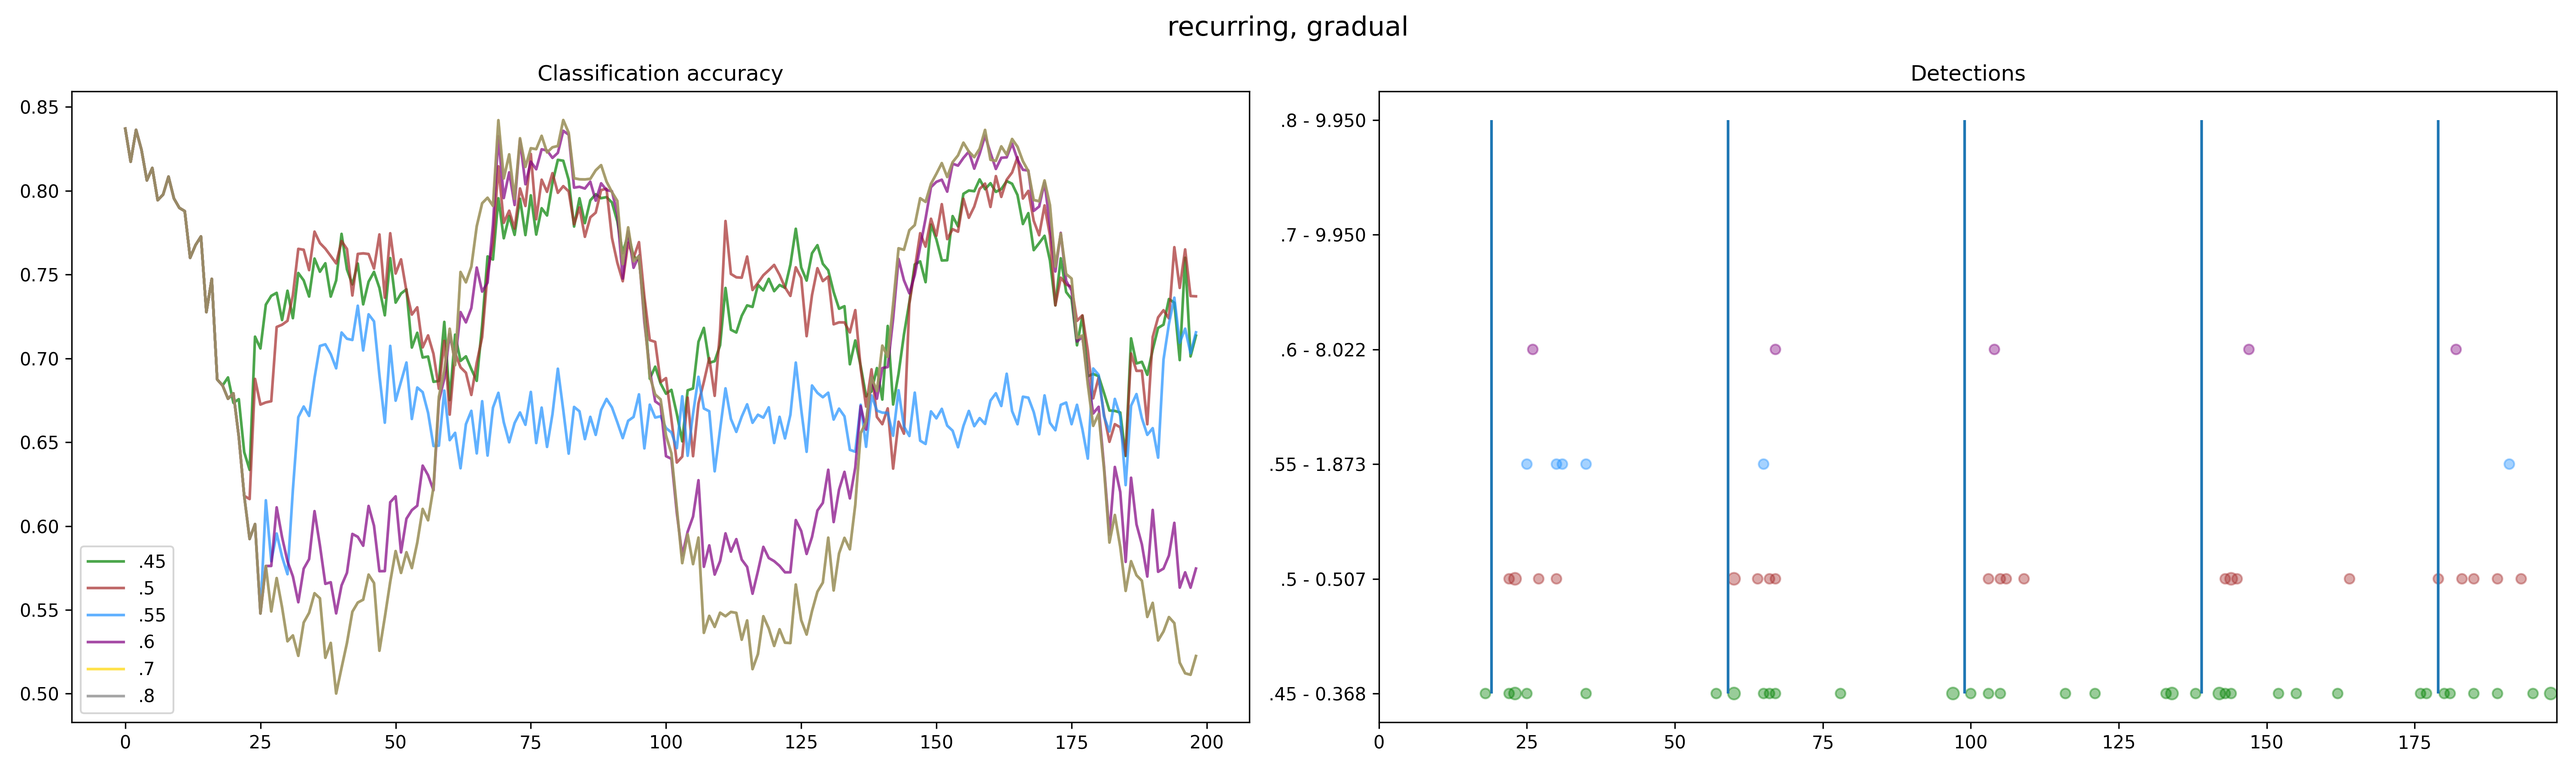
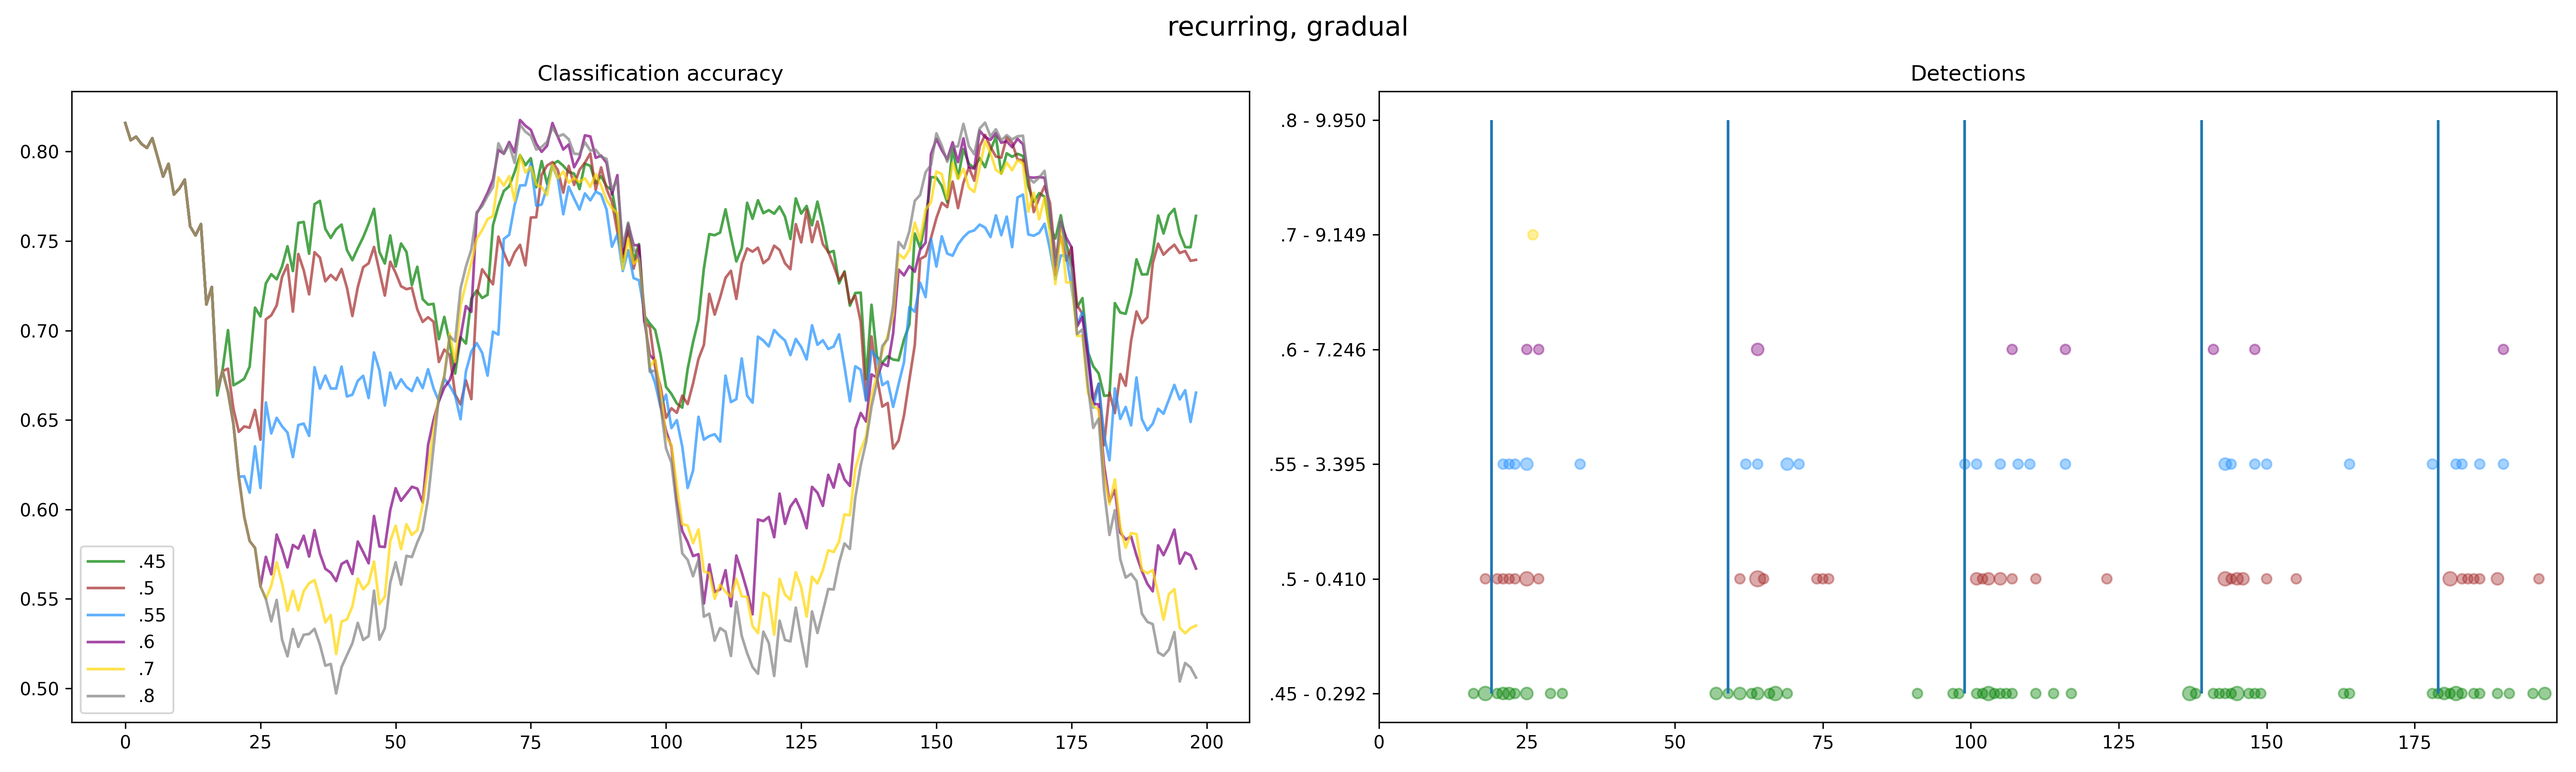
plots + fix sensitivity

diff --git a/methods/KDDDE.py b/methods/KDDDE.py
@@ -6,7 +6,7 @@ from scipy.stats import hmean
 _SQRT2 = np.sqrt(2)
 
 class KDDDE(BaseEstimator, ClassifierMixin):
-    def __init__(self, sigma=3, immobilizer=5, n_detectors = 15, subspace_size=1, random_state=None, sensitivity=0.25):
+    def __init__(self, sigma=3, immobilizer=5, n_detectors = 15, subspace_size=1, random_state=None, sensitivity=0.55):
         self.immobilizer = immobilizer
         self.sigma = sigma
         self.n_detectors = n_detectors
